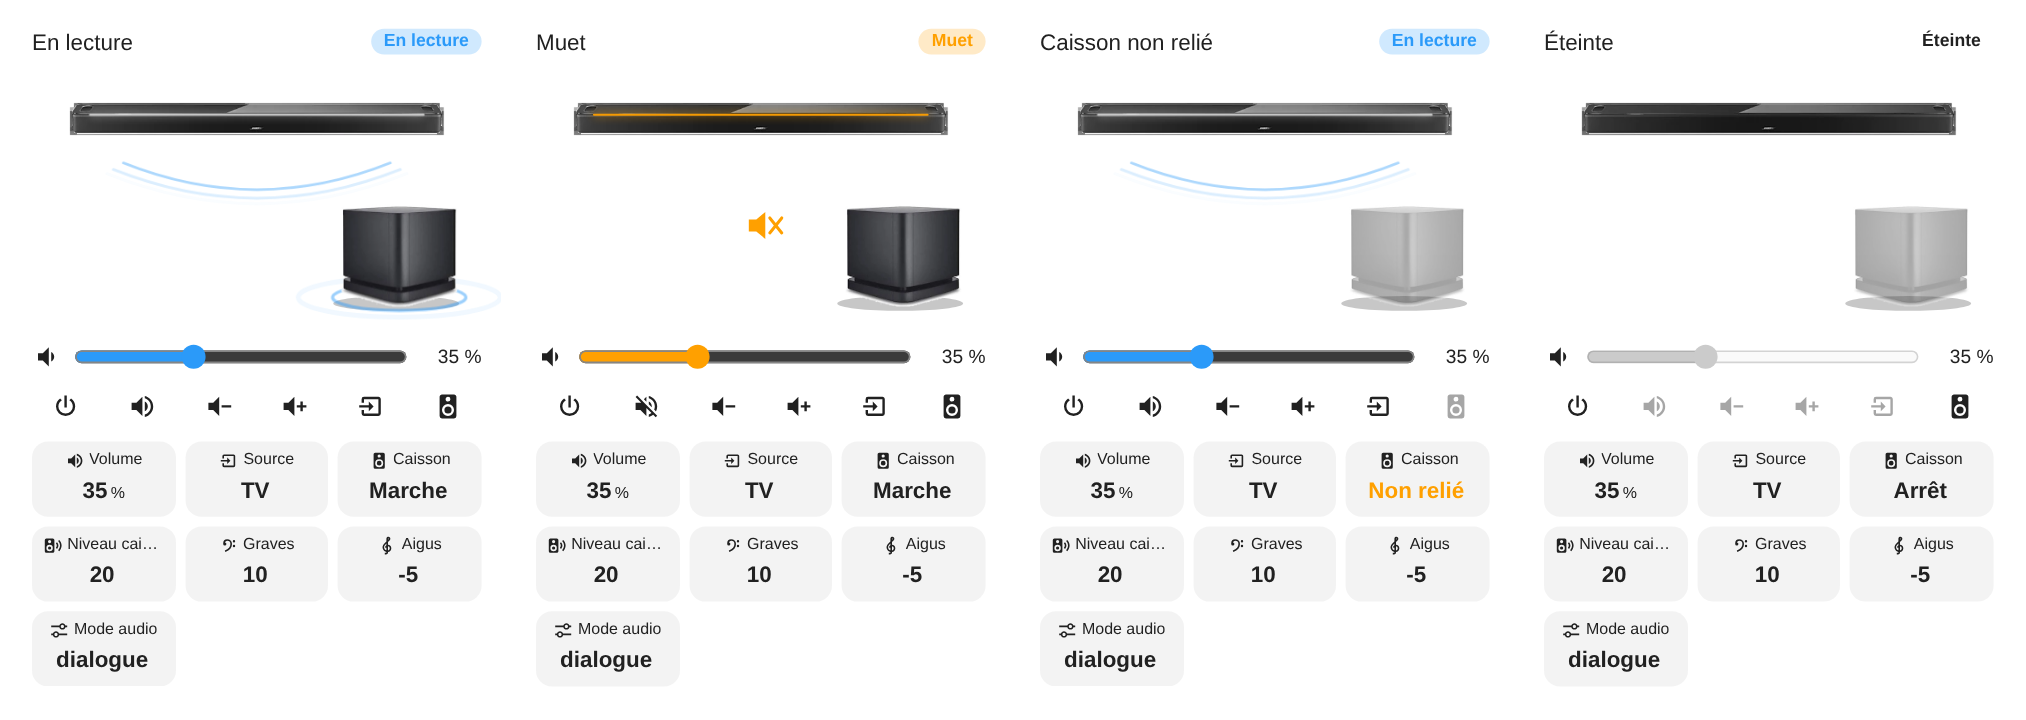
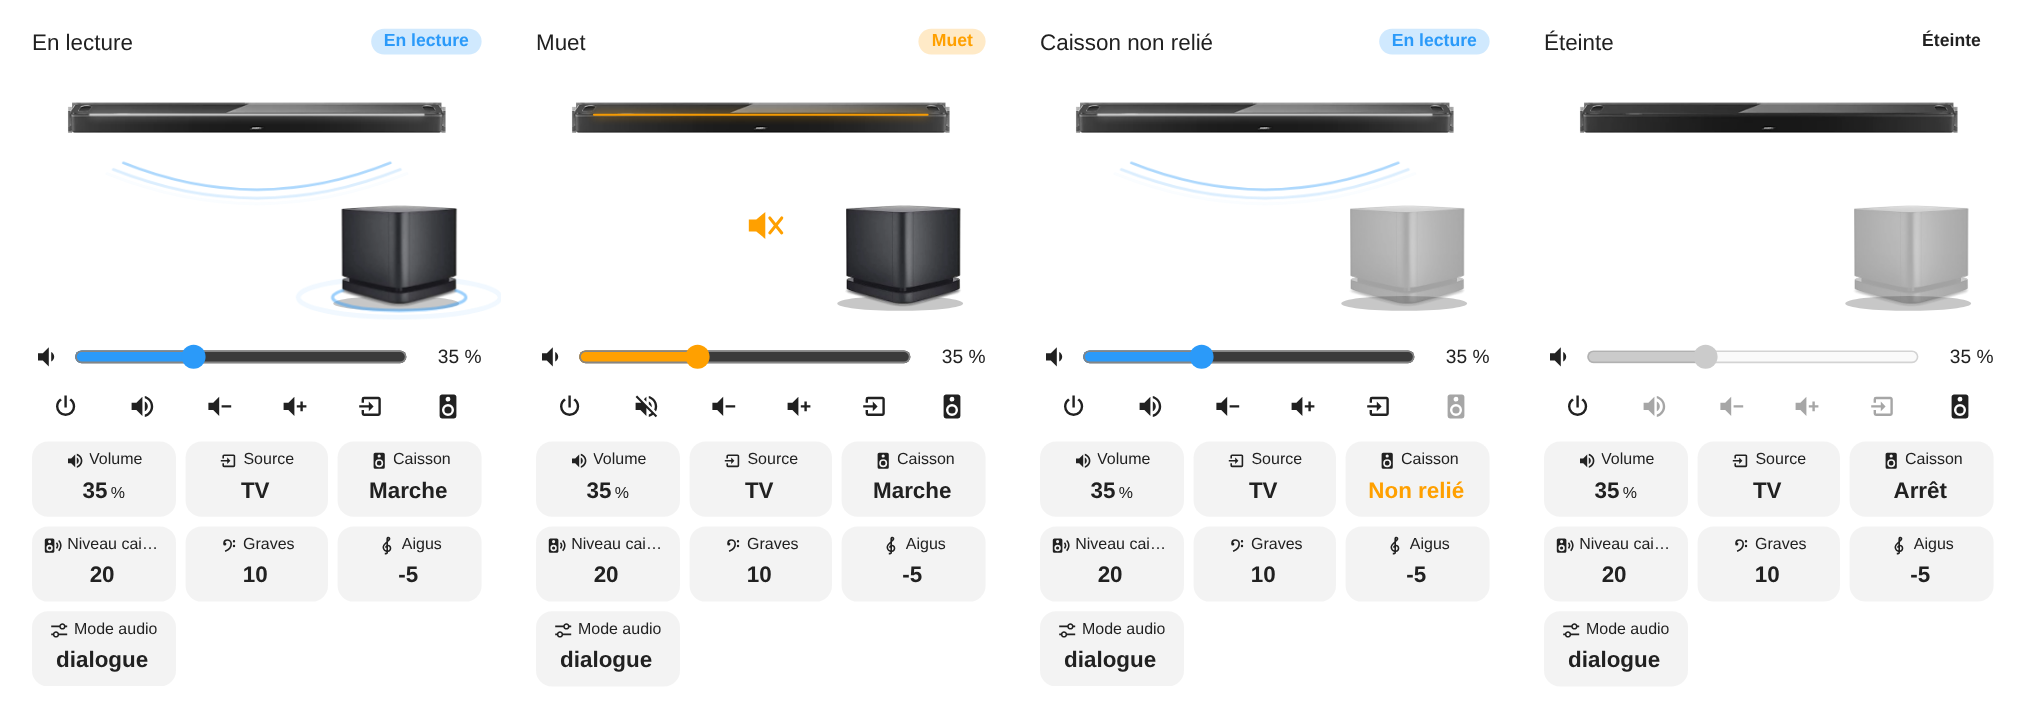
fix(soundbar): cleaner cut-outs for the soundbar and the subwoofer
Matte at 2x with edge decontamination (no white fringe), the bottom reflection of
the soundbar photo removed, sharper pictures. Screenshot updated.

Refs #588.

Claude-Session: https://claude.ai/code/session_01QpEf3XYvgfuJdkgJvTaaSo

diff --git a/dist/cards/soundbar.js b/dist/cards/soundbar.js
@@ -180,14 +180,14 @@ svg{display:block;width:100%;max-width:calc(300px * var(--illus-scale,1));height
 `;
 
   // photos détourées : barre de son 754 × 66 (placée à (24, 30) sur 252 de large), caisson 282 × 247 (placé à (206, 98) sur 78 de large)
[4 lines of base64/hex data omitted]
   const SVG = (label) => `<svg viewBox="0 0 300 184" role="img" aria-label="${esc(label)}">
     <ellipse cx="243" cy="164" rx="42" ry="5" fill="rgba(0,0,0,.22)"/>
     <g class="sw-wrap"><ellipse class="sw-ring" cx="245" cy="160" rx="46" ry="9"/><ellipse class="sw-ring r2" cx="245" cy="160" rx="46" ry="9"/>
       <image class="sw-art" href="${SUB}" x="206" y="98" width="78" height="68.3"/></g>
     <g class="sb-waves"><path class="sb-wave" d="M60 62 Q150 98 240 62"/><path class="sb-wave" d="M60 62 Q150 98 240 62"/><path class="sb-wave" d="M60 62 Q150 98 240 62"/></g>
-    <image class="sb-art" href="${BAR}" x="24" y="30" width="252" height="22.1"/>
+    <image class="sb-art" href="${BAR}" x="24" y="30" width="252" height="20.2"/>
     <rect class="sb-led" x="38" y="37.4" width="224" height="1.4" rx=".7"/>
     <g class="sb-mute" transform="translate(142 104)"><path d="M0 4h5l6-5v18l-6-5H0z" fill="var(--sb-warn,#ffa000)"/><path d="M14 3l8 10M22 3l-8 10" stroke="var(--sb-warn,#ffa000)" stroke-width="2" stroke-linecap="round"/></g>
   </svg>`;

diff --git a/src/cards/soundbar.js b/src/cards/soundbar.js
@@ -67,14 +67,14 @@ svg{display:block;width:100%;max-width:calc(300px * var(--illus-scale,1));height
 `;
 
   // photos détourées : barre de son 754 × 66 (placée à (24, 30) sur 252 de large), caisson 282 × 247 (placé à (206, 98) sur 78 de large)
[4 lines of base64/hex data omitted]
   const SVG = (label) => `<svg viewBox="0 0 300 184" role="img" aria-label="${esc(label)}">
     <ellipse cx="243" cy="164" rx="42" ry="5" fill="rgba(0,0,0,.22)"/>
     <g class="sw-wrap"><ellipse class="sw-ring" cx="245" cy="160" rx="46" ry="9"/><ellipse class="sw-ring r2" cx="245" cy="160" rx="46" ry="9"/>
       <image class="sw-art" href="${SUB}" x="206" y="98" width="78" height="68.3"/></g>
     <g class="sb-waves"><path class="sb-wave" d="M60 62 Q150 98 240 62"/><path class="sb-wave" d="M60 62 Q150 98 240 62"/><path class="sb-wave" d="M60 62 Q150 98 240 62"/></g>
-    <image class="sb-art" href="${BAR}" x="24" y="30" width="252" height="22.1"/>
+    <image class="sb-art" href="${BAR}" x="24" y="30" width="252" height="20.2"/>
     <rect class="sb-led" x="38" y="37.4" width="224" height="1.4" rx=".7"/>
     <g class="sb-mute" transform="translate(142 104)"><path d="M0 4h5l6-5v18l-6-5H0z" fill="var(--sb-warn,#ffa000)"/><path d="M14 3l8 10M22 3l-8 10" stroke="var(--sb-warn,#ffa000)" stroke-width="2" stroke-linecap="round"/></g>
   </svg>`;
